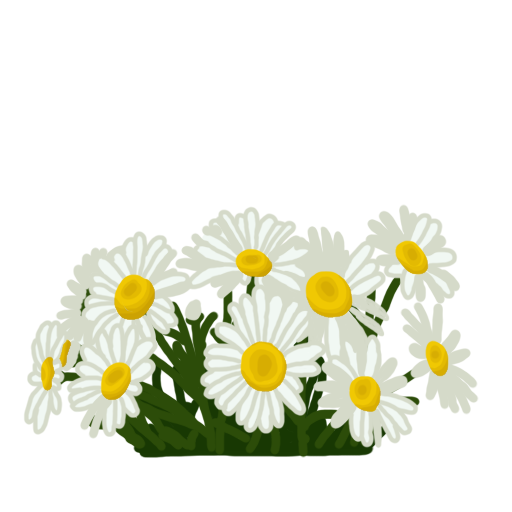
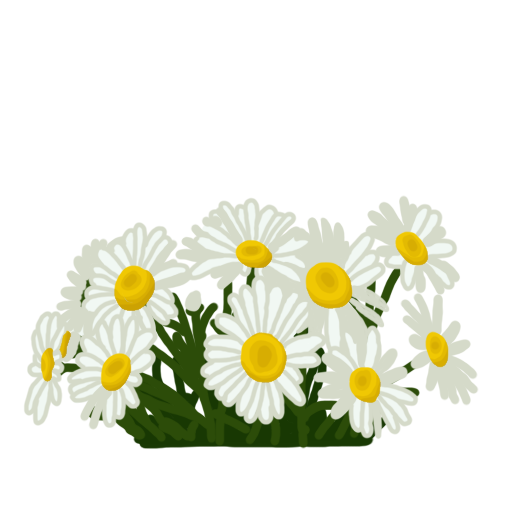
Raise the daisies slightly in the pot
The owner's new drawing sits 9px higher: far less of the flowers is
hidden by the pot front (0.1% vs 0.8%), while the stems still tuck
behind the rim with no gaps in any of the five pots. Same file name, so
ART_VERSION is bumped to 4 and page versions to v=20.

Claude-Session: https://claude.ai/code/session_01AKYuNggPa5w9iRuLumobCr

Changed region(s): [[0.0312, 0.375, 0.9375, 0.9062]]

diff --git a/profile.html b/profile.html
@@ -6,7 +6,7 @@
   <title>Profile — byome</title>
   <link rel="preconnect" href="https://fonts.googleapis.com" />
   <link href="https://fonts.googleapis.com/css2?family=Fraunces:wght@500;600&family=Work+Sans:wght@400;500;600&display=swap" rel="stylesheet" />
-  <link rel="stylesheet" href="style.css?v=19" />
+  <link rel="stylesheet" href="style.css?v=20" />
 </head>
 <body>
   <header class="site-header">
@@ -59,12 +59,12 @@
     <section id="profile-posts" class="feed"><p class="feed-empty">Loading...</p></section>
   </main>
   <script src="https://cdn.jsdelivr.net/npm/@supabase/supabase-js@2"></script>
-  <script src="supabase-client.js?v=19"></script>
-  <script src="profile-fields.js?v=19"></script>
-  <script src="nav-menu.js?v=19"></script>
-  <script src="edit-forms.js?v=19"></script>
-  <script src="biome.js?v=19"></script>
-  <script src="report.js?v=19"></script>
-  <script src="profile.js?v=19"></script>
+  <script src="supabase-client.js?v=20"></script>
+  <script src="profile-fields.js?v=20"></script>
+  <script src="nav-menu.js?v=20"></script>
+  <script src="edit-forms.js?v=20"></script>
+  <script src="biome.js?v=20"></script>
+  <script src="report.js?v=20"></script>
+  <script src="profile.js?v=20"></script>
 </body>
 </html>

diff --git a/reviews.html b/reviews.html
@@ -6,7 +6,7 @@
   <title>Reviews — byome</title>
   <link rel="preconnect" href="https://fonts.googleapis.com" />
   <link href="https://fonts.googleapis.com/css2?family=Fraunces:wght@500;600&family=Work+Sans:wght@400;500;600&display=swap" rel="stylesheet" />
-  <link rel="stylesheet" href="style.css?v=19" />
+  <link rel="stylesheet" href="style.css?v=20" />
 </head>
 <body>
   <header class="site-header">
@@ -104,11 +104,11 @@
     </section>
   </main>
   <script src="https://cdn.jsdelivr.net/npm/@supabase/supabase-js@2"></script>
-  <script src="supabase-client.js?v=19"></script>
-  <script src="profile-fields.js?v=19"></script>
-  <script src="nav-menu.js?v=19"></script>
-  <script src="edit-forms.js?v=19"></script>
-  <script src="report.js?v=19"></script>
-  <script src="reviews.js?v=19"></script>
+  <script src="supabase-client.js?v=20"></script>
+  <script src="profile-fields.js?v=20"></script>
+  <script src="nav-menu.js?v=20"></script>
+  <script src="edit-forms.js?v=20"></script>
+  <script src="report.js?v=20"></script>
+  <script src="reviews.js?v=20"></script>
 </body>
 </html>

diff --git a/feed.html b/feed.html
@@ -7,7 +7,7 @@
 
   <link rel="preconnect" href="https://fonts.googleapis.com" />
   <link href="https://fonts.googleapis.com/css2?family=Fraunces:wght@500;600&family=Work+Sans:wght@400;500;600&display=swap" rel="stylesheet" />
-  <link rel="stylesheet" href="style.css?v=19" />
+  <link rel="stylesheet" href="style.css?v=20" />
 </head>
 <body>
 
@@ -69,11 +69,11 @@
   </main>
 
   <script src="https://cdn.jsdelivr.net/npm/@supabase/supabase-js@2"></script>
-  <script src="supabase-client.js?v=19"></script>
-  <script src="profile-fields.js?v=19"></script>
-  <script src="nav-menu.js?v=19"></script>
-  <script src="edit-forms.js?v=19"></script>
-  <script src="report.js?v=19"></script>
-  <script src="feed.js?v=19"></script>
+  <script src="supabase-client.js?v=20"></script>
+  <script src="profile-fields.js?v=20"></script>
+  <script src="nav-menu.js?v=20"></script>
+  <script src="edit-forms.js?v=20"></script>
+  <script src="report.js?v=20"></script>
+  <script src="feed.js?v=20"></script>
 </body>
 </html>

diff --git a/moderate-products.html b/moderate-products.html
@@ -7,7 +7,7 @@
 
   <link rel="preconnect" href="https://fonts.googleapis.com" />
   <link href="https://fonts.googleapis.com/css2?family=Fraunces:wght@500;600&family=Work+Sans:wght@400;500;600&display=swap" rel="stylesheet" />
-  <link rel="stylesheet" href="style.css?v=19" />
+  <link rel="stylesheet" href="style.css?v=20" />
 </head>
 <body>
 
@@ -53,10 +53,10 @@
   </main>
 
   <script src="https://cdn.jsdelivr.net/npm/@supabase/supabase-js@2"></script>
-  <script src="supabase-client.js?v=19"></script>
-  <script src="profile-fields.js?v=19"></script>
-  <script src="nav-menu.js?v=19"></script>
-  <script src="product-match.js?v=19"></script>
-  <script src="moderate-products.js?v=19"></script>
+  <script src="supabase-client.js?v=20"></script>
+  <script src="profile-fields.js?v=20"></script>
+  <script src="nav-menu.js?v=20"></script>
+  <script src="product-match.js?v=20"></script>
+  <script src="moderate-products.js?v=20"></script>
 </body>
 </html>

diff --git a/reset-password.html b/reset-password.html
@@ -7,7 +7,7 @@
 
   <link rel="preconnect" href="https://fonts.googleapis.com" />
   <link href="https://fonts.googleapis.com/css2?family=Fraunces:wght@500;600&family=Work+Sans:wght@400;500;600&display=swap" rel="stylesheet" />
-  <link rel="stylesheet" href="style.css?v=19" />
+  <link rel="stylesheet" href="style.css?v=20" />
   <!-- Note what the email link said before Supabase tidies the address bar -->
   <script>window.resetLinkParams = window.location.hash.slice(1) + "&" + window.location.search.slice(1);</script>
 </head>
@@ -66,8 +66,8 @@
   </main>
 
   <script src="https://cdn.jsdelivr.net/npm/@supabase/supabase-js@2"></script>
-  <script src="supabase-client.js?v=19"></script>
-  <script src="nav-menu.js?v=19"></script>
-  <script src="reset-password.js?v=19"></script>
+  <script src="supabase-client.js?v=20"></script>
+  <script src="nav-menu.js?v=20"></script>
+  <script src="reset-password.js?v=20"></script>
 </body>
 </html>

diff --git a/edit-profile.html b/edit-profile.html
@@ -6,7 +6,7 @@
   <title>Edit profile — byome</title>
   <link rel="preconnect" href="https://fonts.googleapis.com" />
   <link href="https://fonts.googleapis.com/css2?family=Fraunces:wght@500;600&family=Work+Sans:wght@400;500;600&display=swap" rel="stylesheet" />
-  <link rel="stylesheet" href="style.css?v=19" />
+  <link rel="stylesheet" href="style.css?v=20" />
 </head>
 <body>
   <header class="site-header">
@@ -81,9 +81,9 @@
   </main>
 
   <script src="https://cdn.jsdelivr.net/npm/@supabase/supabase-js@2"></script>
-  <script src="supabase-client.js?v=19"></script>
-  <script src="profile-fields.js?v=19"></script>
-  <script src="nav-menu.js?v=19"></script>
-  <script src="edit-profile.js?v=19"></script>
+  <script src="supabase-client.js?v=20"></script>
+  <script src="profile-fields.js?v=20"></script>
+  <script src="nav-menu.js?v=20"></script>
+  <script src="edit-profile.js?v=20"></script>
 </body>
 </html>

diff --git a/signup.html b/signup.html
@@ -7,7 +7,7 @@
 
   <link rel="preconnect" href="https://fonts.googleapis.com" />
   <link href="https://fonts.googleapis.com/css2?family=Fraunces:wght@500;600&family=Work+Sans:wght@400;500;600&display=swap" rel="stylesheet" />
-  <link rel="stylesheet" href="style.css?v=19" />
+  <link rel="stylesheet" href="style.css?v=20" />
 </head>
 <body>
 
@@ -63,10 +63,10 @@
   <!-- Supabase's own code library, loaded from their servers -->
   <script src="https://cdn.jsdelivr.net/npm/@supabase/supabase-js@2"></script>
   <!-- Our shared connection setup -->
-  <script src="supabase-client.js?v=19"></script>
+  <script src="supabase-client.js?v=20"></script>
   <!-- Hamburger menu behavior -->
-  <script src="nav-menu.js?v=19"></script>
+  <script src="nav-menu.js?v=20"></script>
   <!-- The logic specific to this page -->
-  <script src="signup.js?v=19"></script>
+  <script src="signup.js?v=20"></script>
 </body>
 </html>

diff --git a/suggest-product.html b/suggest-product.html
@@ -7,7 +7,7 @@
 
   <link rel="preconnect" href="https://fonts.googleapis.com" />
   <link href="https://fonts.googleapis.com/css2?family=Fraunces:wght@500;600&family=Work+Sans:wght@400;500;600&display=swap" rel="stylesheet" />
-  <link rel="stylesheet" href="style.css?v=19" />
+  <link rel="stylesheet" href="style.css?v=20" />
 </head>
 <body>
 
@@ -82,9 +82,9 @@
   </main>
 
   <script src="https://cdn.jsdelivr.net/npm/@supabase/supabase-js@2"></script>
-  <script src="supabase-client.js?v=19"></script>
-  <script src="nav-menu.js?v=19"></script>
-  <script src="product-match.js?v=19"></script>
-  <script src="suggest-product.js?v=19"></script>
+  <script src="supabase-client.js?v=20"></script>
+  <script src="nav-menu.js?v=20"></script>
+  <script src="product-match.js?v=20"></script>
+  <script src="suggest-product.js?v=20"></script>
 </body>
 </html>

diff --git a/notifications.html b/notifications.html
@@ -6,7 +6,7 @@
   <title>Notifications — byome</title>
   <link rel="preconnect" href="https://fonts.googleapis.com" />
   <link href="https://fonts.googleapis.com/css2?family=Fraunces:wght@500;600&family=Work+Sans:wght@400;500;600&display=swap" rel="stylesheet" />
-  <link rel="stylesheet" href="style.css?v=19" />
+  <link rel="stylesheet" href="style.css?v=20" />
 </head>
 <body>
   <header class="site-header">
@@ -35,8 +35,8 @@
     </section>
   </main>
   <script src="https://cdn.jsdelivr.net/npm/@supabase/supabase-js@2"></script>
-  <script src="supabase-client.js?v=19"></script>
-  <script src="nav-menu.js?v=19"></script>
-  <script src="notifications.js?v=19"></script>
+  <script src="supabase-client.js?v=20"></script>
+  <script src="nav-menu.js?v=20"></script>
+  <script src="notifications.js?v=20"></script>
 </body>
 </html>

diff --git a/biome-shop.html b/biome-shop.html
@@ -7,7 +7,7 @@
 
   <link rel="preconnect" href="https://fonts.googleapis.com" />
   <link href="https://fonts.googleapis.com/css2?family=Fraunces:wght@500;600&family=Work+Sans:wght@400;500;600&display=swap" rel="stylesheet" />
-  <link rel="stylesheet" href="style.css?v=19" />
+  <link rel="stylesheet" href="style.css?v=20" />
 </head>
 <body>
 
@@ -41,9 +41,9 @@
   </main>
 
   <script src="https://cdn.jsdelivr.net/npm/@supabase/supabase-js@2"></script>
-  <script src="supabase-client.js?v=19"></script>
-  <script src="nav-menu.js?v=19"></script>
-  <script src="biome.js?v=19"></script>
-  <script src="biome-shop.js?v=19"></script>
+  <script src="supabase-client.js?v=20"></script>
+  <script src="nav-menu.js?v=20"></script>
+  <script src="biome.js?v=20"></script>
+  <script src="biome-shop.js?v=20"></script>
 </body>
 </html>

diff --git a/login.html b/login.html
@@ -7,7 +7,7 @@
 
   <link rel="preconnect" href="https://fonts.googleapis.com" />
   <link href="https://fonts.googleapis.com/css2?family=Fraunces:wght@500;600&family=Work+Sans:wght@400;500;600&display=swap" rel="stylesheet" />
-  <link rel="stylesheet" href="style.css?v=19" />
+  <link rel="stylesheet" href="style.css?v=20" />
 </head>
 <body>
 
@@ -56,8 +56,8 @@
   </main>
 
   <script src="https://cdn.jsdelivr.net/npm/@supabase/supabase-js@2"></script>
-  <script src="supabase-client.js?v=19"></script>
-  <script src="nav-menu.js?v=19"></script>
-  <script src="login.js?v=19"></script>
+  <script src="supabase-client.js?v=20"></script>
+  <script src="nav-menu.js?v=20"></script>
+  <script src="login.js?v=20"></script>
 </body>
 </html>

diff --git a/index.html b/index.html
@@ -10,7 +10,7 @@
   <link href="https://fonts.googleapis.com/css2?family=Fraunces:wght@500;600&family=Work+Sans:wght@400;500;600&display=swap" rel="stylesheet" />
 
   <!-- Our own stylesheet, kept in a separate file -->
-  <link rel="stylesheet" href="style.css?v=19" />
+  <link rel="stylesheet" href="style.css?v=20" />
 </head>
 <body>
 
@@ -77,7 +77,7 @@
   </footer>
 
   <script src="https://cdn.jsdelivr.net/npm/@supabase/supabase-js@2"></script>
-  <script src="supabase-client.js?v=19"></script>
-  <script src="nav-menu.js?v=19"></script>
+  <script src="supabase-client.js?v=20"></script>
+  <script src="nav-menu.js?v=20"></script>
 </body>
 </html>
